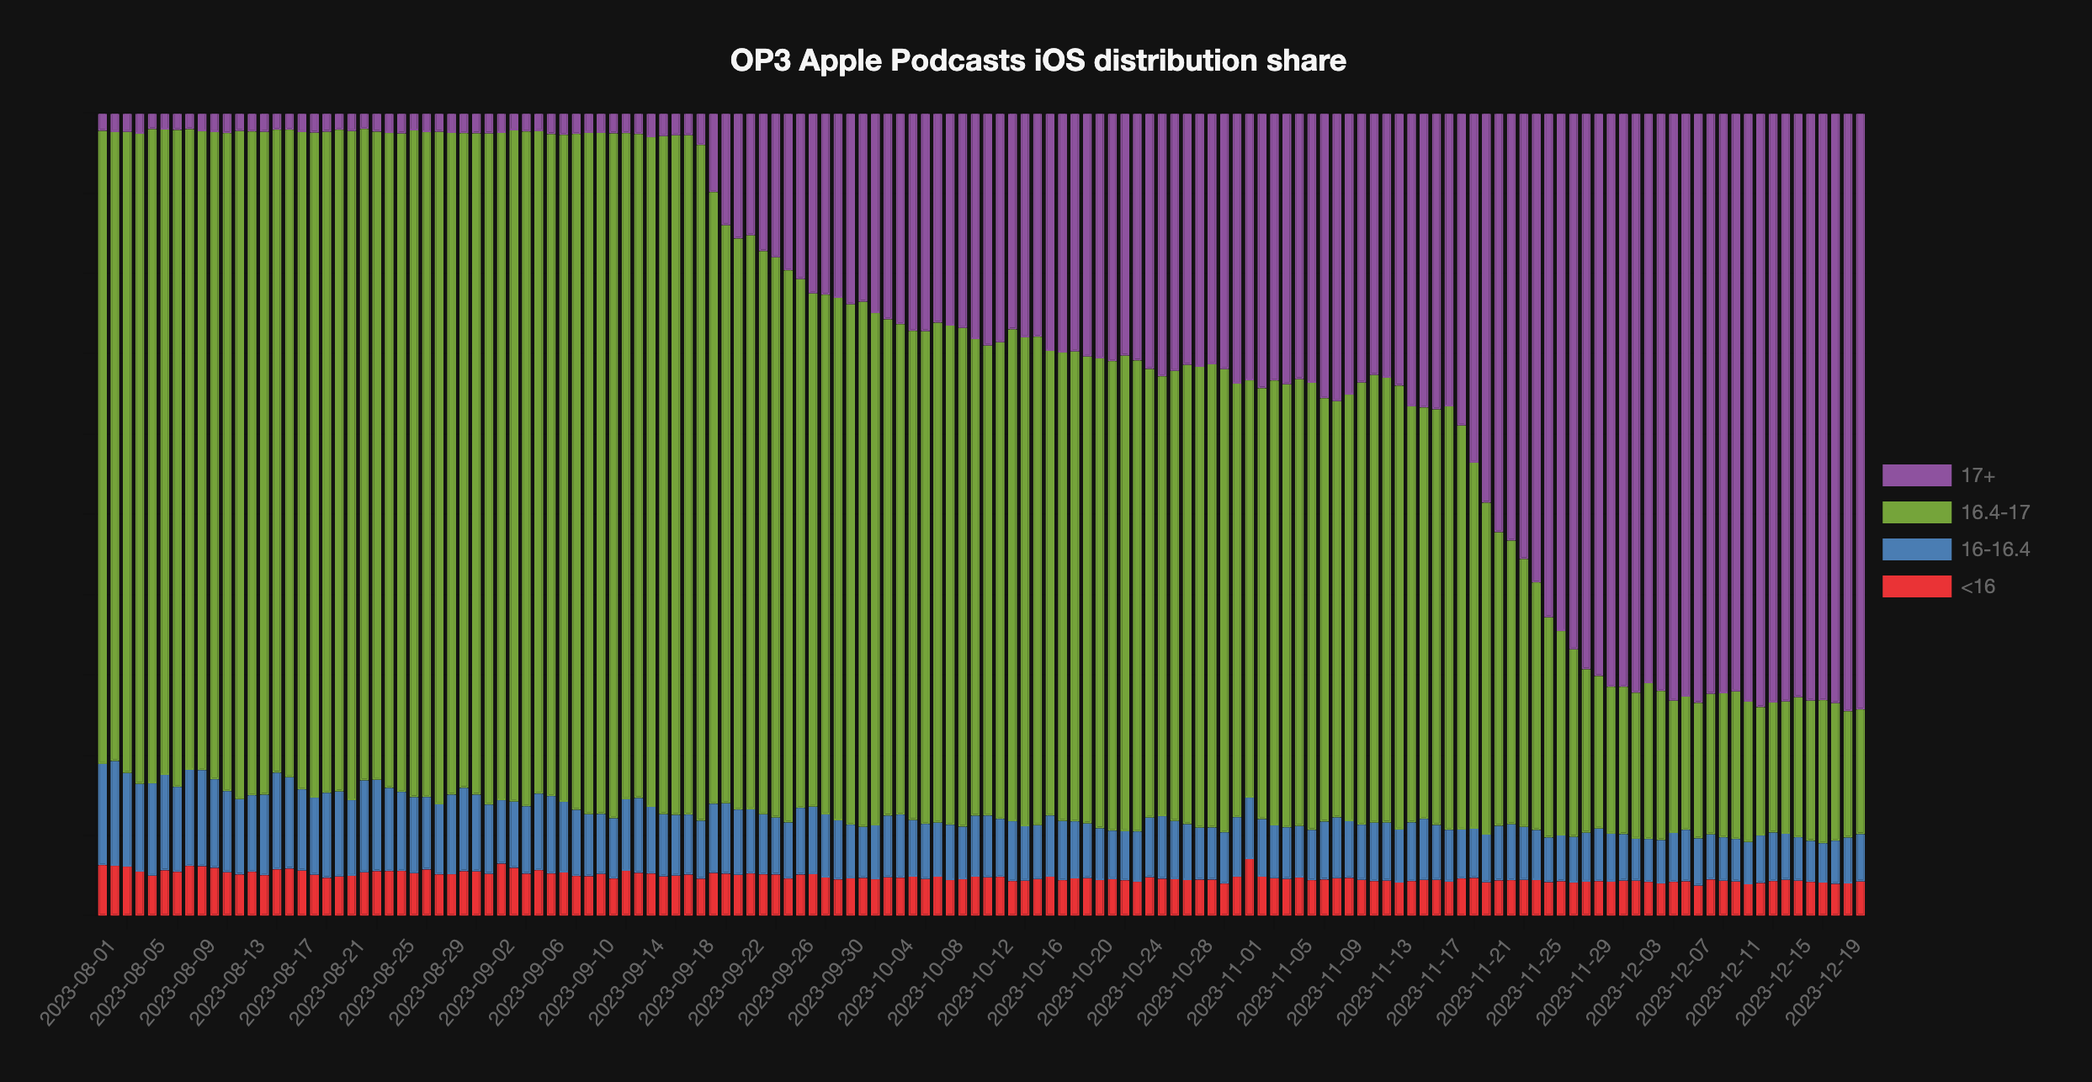
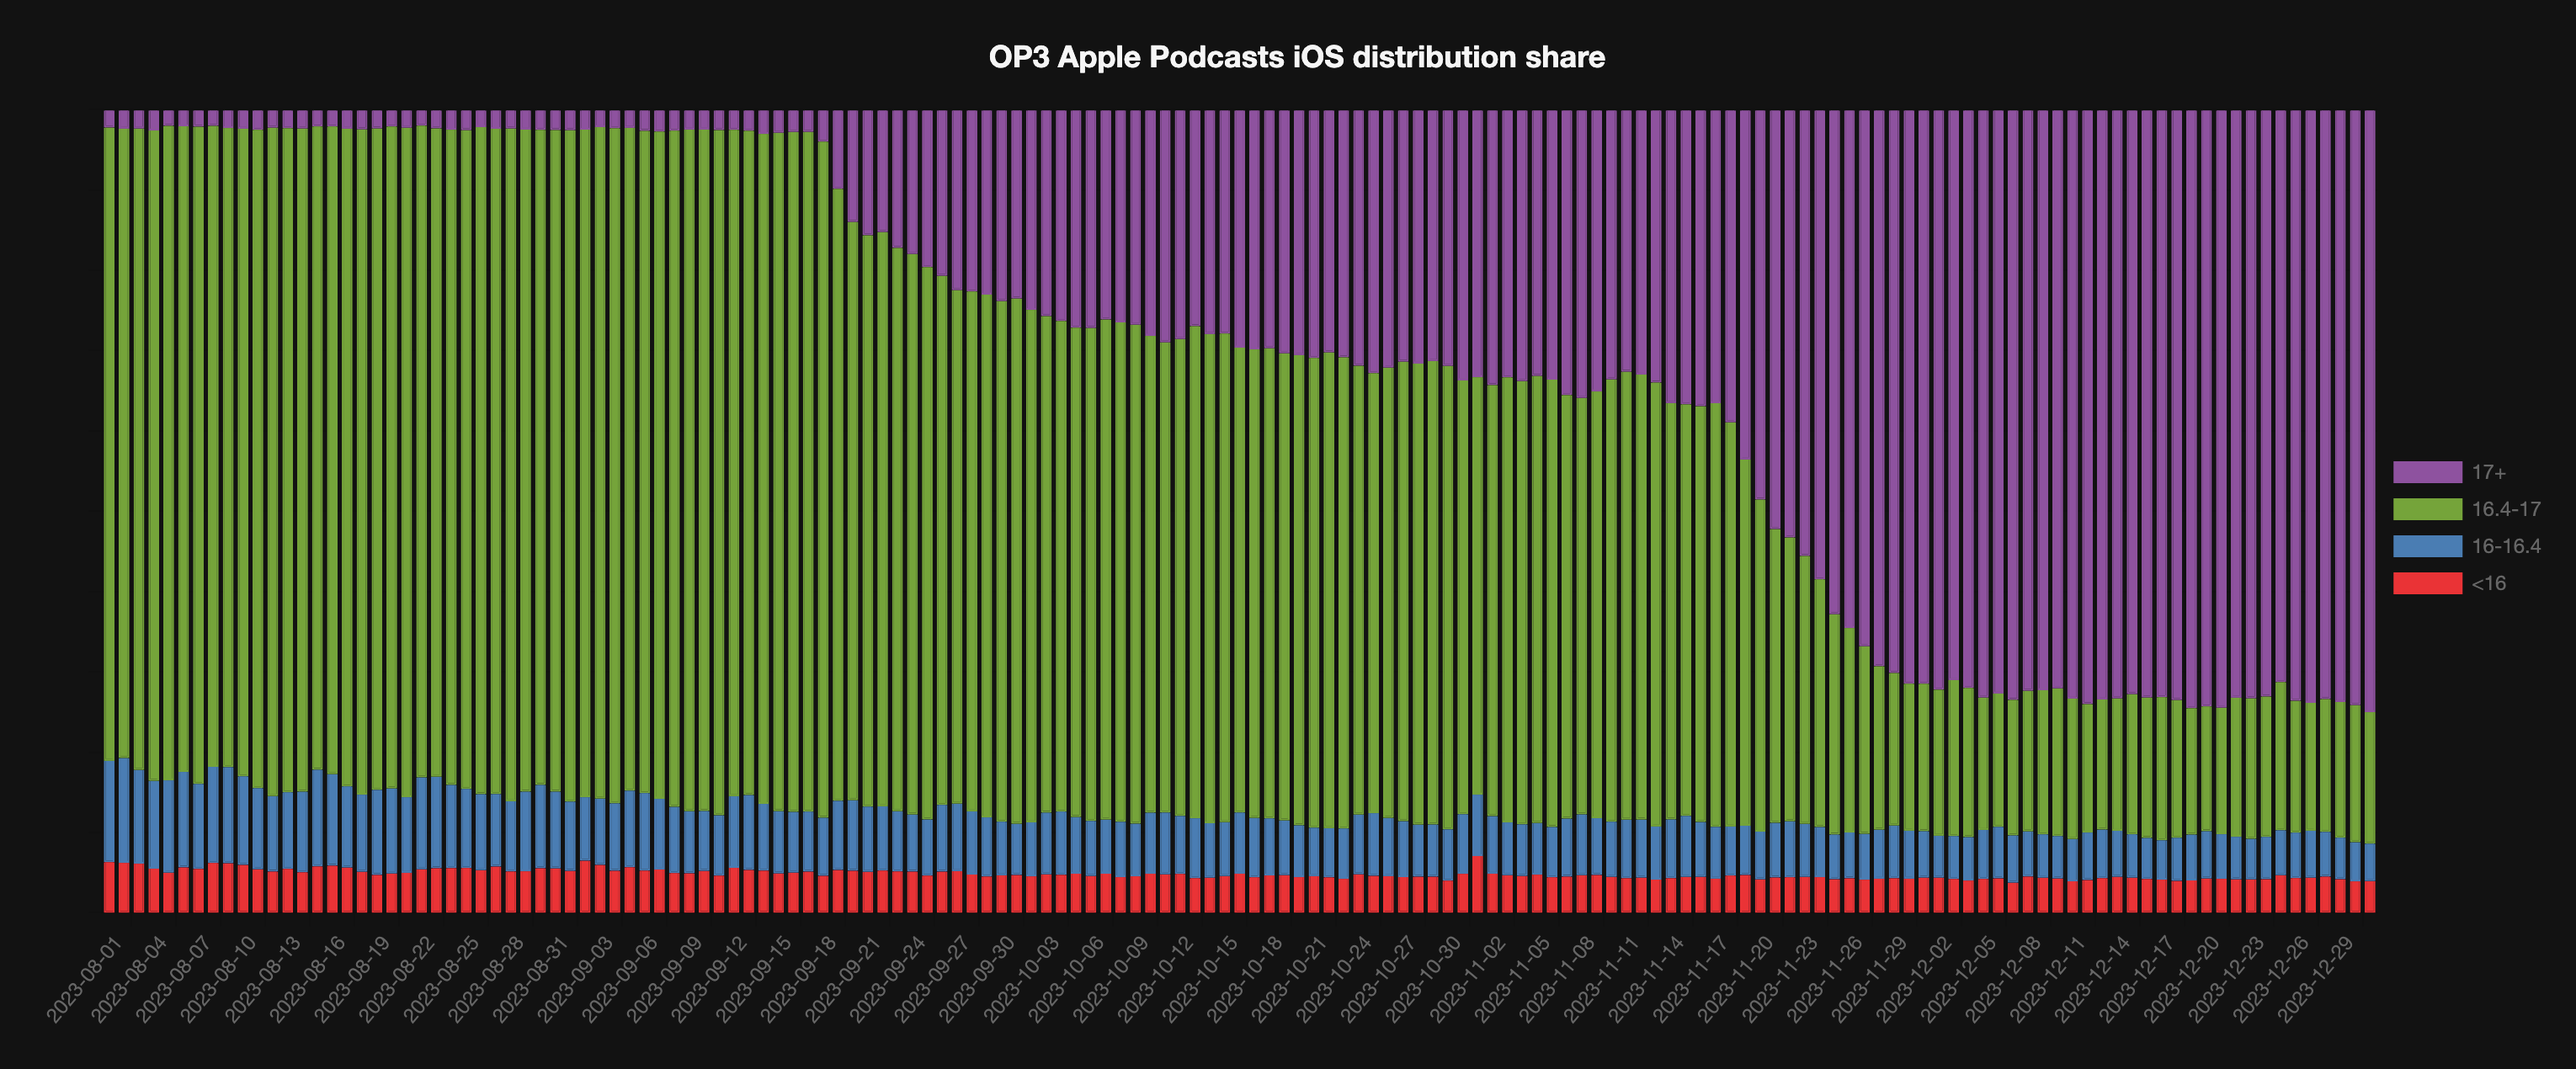
Updated ios17 post.

diff --git a/content/posts/tracking-apple-podcasts-ios17-changes.md b/content/posts/tracking-apple-podcasts-ios17-changes.md
@@ -5,11 +5,11 @@ slug: "tracking-apple-podcasts-ios17-changes"
 images:
 - tracking-apple-podcasts-ios17-changes.png
 date: 2023-11-24T13:17:00-06:00
-lastmod: 2023-12-21T12:30:00-06:00
+lastmod: 2024-01-01T01:44:00-06:00
 draft: false
 ---
 
-_(Updated with data through 2023-12-20)_
+_(Updated with data through 2023-12-31)_
 
 Apple made a change to [auto-downloading in Apple Podcasts in iOS 17](https://podcasters.apple.com/5349-ios-17-automatic-download-improvements), are we seeing a difference in downloads?
 
@@ -169,9 +169,20 @@ Date	17+	16.4-17	16-16.4	<16
 2023-12-18	73.51456082667919	17.141263503992484	5.379579614842649	3.9645960544856735
 2023-12-19	74.5266226576406	15.738132279359206	5.709960896438632	4.0252841665615495
 2023-12-20	74.29825299346625	15.535178486301563	5.900002804183843	4.266565716048344
+2023-12-21	74.47713399379565	15.74268654724974	5.555555555555555	4.2246239033990465
+2023-12-22	73.22067594433399	17.317760106030484	5.296554009277667	4.165009940357852
+2023-12-23	73.300447401629	17.49913961225192	5.047608122060342	4.152804864058736
+2023-12-24	73.07536150410694	17.4677535213467	5.278116118554608	4.178768855991755
+2023-12-25	71.27408521563238	18.44869168330697	5.6041077772879335	4.673115323772723
+2023-12-26	73.61125629821665	16.405678325771987	5.659509523112625	4.323555852898748
+2023-12-27	73.8629821531376	15.919943106776389	5.851874428527888	4.365200311558129
+2023-12-28	73.3858964560119	16.541292891910373	5.563377448811296	4.509433203266423
+2023-12-29	73.75447965708665	16.890942309043638	5.1788349378118195	4.175743096057902
+2023-12-30	74.14565826330532	17.074102368220014	4.868856633562516	3.9113827349121464
+2023-12-31	75.02012102423465	16.371061495811844	4.668077622440158	3.9407398575133397
 {{< /graph >}}
 
-We can see that iOS 17 is rolling out quite quickly, with a few beta testers in August, then an initial rise after September 18, a large increase starting November 19, plateauing in December to a level where  _over 70% of AP listeners have iOS 17+_.
+We can see that iOS 17 is rolling out quite quickly, with a few beta testers in August, then an initial rise after September 18, a large increase starting November 19, plateauing in December to a level where  _3 out of 4 AP listeners have iOS 17+_.
 
 We show pre-post 16.4 as well, since that was when Apple Podcasts made another change, [no longer using the AppleCoreMedia user-agents for some requests](/apple-podcasts-vs-applecoremedia).
 
@@ -329,6 +340,17 @@ Date	Apple Podcasts	AppleCoreMedia	Spotify	NRC	Other
 2023-12-18	32.09610485331111	3.8601635395469818	28.350504451672514	4.891765874605438	30.80146128086395
 2023-12-19	34.120661528617624	3.5658905791545856	32.31494664998819	2.452774719415254	27.54572652282435
 2023-12-20	34.4126491361301	3.740608144383524	34.81989612976269	1.019786529137354	26.007060060586333
+2023-12-21	27.987062810375328	3.1940685010336964	32.16181078028091	8.47524457042989	28.181813337880175
+2023-12-22	31.110665200979454	3.7023142735833146	34.23601053898903	2.9124717186345843	28.038538267813625
+2023-12-23	33.708865757659765	4.353487746889466	33.02711058463761	1.111895220572792	27.798640690240354
+2023-12-24	33.290565000229115	4.600650689639371	30.080394283299476	1.208714557016807	30.819675469815234
+2023-12-25	36.128564763804924	4.4206545367916386	23.835402956036646	1.0631011583931391	34.55227658497365
+2023-12-26	31.72205093935574	3.824248591346081	36.50995550020503	0.9006272496696688	27.043117719423478
+2023-12-27	33.05295774294514	3.452947707129819	36.63448933381003	0.6310018879877562	26.228603328127253
+2023-12-28	31.63822737198873	3.7454447758726395	33.455494857505016	3.7172006640810675	27.443632330552553
+2023-12-29	33.7727927773793	3.818592194357986	30.72410457533544	0.794909421124323	30.889601031802954
+2023-12-30	33.747838001752065	4.24582762416047	32.16109975516071	0.7767470068959321	29.068487612030818
+2023-12-31	32.61119827217344	4.209539721673221	28.615599339839846	0.7656023961368407	33.798060270176656
 {{< /graph >}}
 
 {{< graph agent-share-ten-daily-all "OP3 podcast app share (ten-daily, all shows)" "limit:100,height:600px,type:stacked-bar">}}
@@ -347,6 +369,7 @@ Date	Apple Podcasts	AppleCoreMedia	Spotify	NRC	Other
 2023-11-21	35.36076051530232	4.035034483587419	31.909998260184135	2.591315068635326	26.102891672290795
 2023-12-01	33.220651958353216	4.041616709342518	30.455958552469365	3.057153267451802	29.2246195123831
 2023-12-11	34.366035146387794	3.8705972222479117	31.712392236795132	1.8810278188289593	28.1699475757402
+2023-12-21	32.30008805066404	3.873958084088045	32.38088588864404	2.366115881181085	29.07895209542279
 {{< /graph >}}
 
 {{< graph agent-share-monthly-all "OP3 podcast app share (monthly, all shows)" "limit:100,height:600px,type:stacked-bar">}}
@@ -355,7 +378,7 @@ Date	Apple Podcasts	AppleCoreMedia	Spotify	NRC	Other
 2023-09	39.09834716498004	4.600363593301731	30.898392994176017	0.9169686445349059	24.48592760300731
 2023-10	38.4274842787035	4.278142446986713	28.411312797116373	2.6914541121826985	26.191606365010717
 2023-11	37.56132504508113	3.8999039772641324	31.666984205851513	1.5742271895888968	25.29755958221433
-2023-12	33.79797318410164	3.9554157060907182	31.089253891779574	2.4643366513829106	28.693020566645156
+2023-12	33.32711865688839	3.929809810658696	31.495273525488997	2.433461323706906	28.814336683257014
 {{< /graph >}}
 
 Some notes:
@@ -524,6 +547,17 @@ Date	Apple Podcasts	AppleCoreMedia	Spotify	NRC	Other
 2023-12-18	59.27219160892575	3.726335315620056	7.4635823012712095	0	29.53789077418299
 2023-12-19	56.74004825090471	3.7494973864093284	6.297748291113791	0	33.21270607157217
 2023-12-20	60.55884685357093	3.51728320194057	6.922610439893642	0	29.001259504594863
+2023-12-21	56.42023346303502	3.9165656694520634	8.3944632263826	0	31.26873764113032
+2023-12-22	53.05730907290507	3.6266864710979085	7.358583983166234	0	35.9574204728308
+2023-12-23	55.43388429752066	4.207988980716253	7.754820936639119	0	32.603305785123965
+2023-12-24	55.57697142378279	4.19844129724294	7.089583507919215	0	33.135003771055054
+2023-12-25	58.37407206228499	3.6664856056491035	5.56762629005975	0	32.391816042006155
+2023-12-26	57.29588394062078	4.2257085020242915	8.063427800269904	0	30.41497975708502
+2023-12-27	51.86104218362283	4.074095446938657	7.484563448554446	0	36.58029892088407
+2023-12-28	52.468477206595544	4.980601357904947	6.707080504364694	0	35.84384093113482
+2023-12-29	50.72746740568117	4.931662152799647	7.747055489072243	0	36.593814952446934
+2023-12-30	52.085043506813335	5.672303398456739	8.487933015925135	0	33.754720078804795
+2023-12-31	53.68439498817138	5.511259090510821	7.377551914483484	0	33.42679400683431
 {{< /graph >}}
 
 {{< graph agent-share-ten-daily-subset "OP3 podcast app share (ten-daily, 38 Apple-heavy shows)" "limit:100,height:600px,type:stacked-bar">}}
@@ -542,6 +576,7 @@ Date	Apple Podcasts	AppleCoreMedia	Spotify	NRC	Other
 2023-11-21	59.11194708033054	4.321913899866855	7.235243147283217	0	29.330895872519392
 2023-12-01	58.5893823008045	3.9617517385573384	7.4252306713331215	0	30.023635289305034
 2023-12-11	58.02543660623217	3.779063716408901	6.712495576694906	0	31.483004100664015
+2023-12-21	54.01390824091645	4.447358632125136	7.461020988456034	0	34.07771213850238
 {{< /graph >}}
 
 {{< graph agent-share-monthly-subset "OP3 podcast app share (monthly, 38 Apple-heavy shows)" "limit:100,height:600px,type:stacked-bar">}}
@@ -550,16 +585,16 @@ Date	Apple Podcasts	AppleCoreMedia	Spotify	NRC	Other
 2023-09	66.89161304652441	4.448700845536972	5.31274722050458	0	23.346938887434035
 2023-10	65.37621737774235	3.9634006862371334	6.5225799743527535	0	24.137801961667765
 2023-11	63.109407034640675	3.8358949299026266	6.563513655322341	0	26.491184380134353
-2023-12	58.29503601577524	3.8663994002803035	7.053225123040319	0	30.785339460904144
+2023-12	57.00601575981001	4.04132251800077	7.176009856050785	0	31.77665186613843
 {{< /graph >}}
 
-After isolating to shows likely to have the most dramatic effect, we see a drop in Apple Podcasts share of downloads of 7-9%.
+After isolating to shows likely to have the most dramatic effect, we see a drop in Apple Podcasts share of downloads of 8-10%, vs 5-6% drop in Apple Podcasts share across all shows.
 
 The share of Apple Podcasts downloads for these 38 Apple-heavy shows went:
  - from 65.52% in August to 63.11% in November (-2.41%)
  - from 66.89% in September to 63.11% in November (-3.78%)
- - from 65.52% in August to 58.3% in December MTD (-7.22%)
- - from 66.89% in September to 58.3% in December MTD (-8.59%)
+ - from 65.52% in August to 57.01% in December (-8.51%)
+ - from 66.89% in September to 57.01% in December (-9.88%)
 
 Once again, it's very difficult to keep everything else constant when trying to identify the effect from the iOS 17 change alone.
 December is traditionally a slumping month for publishing and listening, we'll be able to say for sure whether these changes are durable after a full January.
@@ -570,6 +605,8 @@ We'll keep an eye on it, and update these numbers periodically.
 Data collected and visualized by [John Spurlock](https://twitter.com/johnspurlock)
 
 ---
+
+*Updated 2024-01-01, with eleven new days of data.*
 
 *Updated 2023-12-21, with ten new days of data, and after [reprocessing](https://op3.dev/status#2023-12-15-2023-12-21-finished). Filter for Apple-heavy shows changed to 40%, now 38 shows.*
 

diff --git a/content/_index.md b/content/_index.md
@@ -1,16 +1,16 @@
 ---
 title: "livewire.io: Podcasting ▷ Forward"
 date: 2023-01-15T18:32:00-06:00
-lastmod: 2024-01-01T10:51:00-06:00
+lastmod: 2024-01-01T01:44:00-06:00
 ---
 
 {{< p index-subhead "Podcasting ▷ Forward" >}}
 
 ---
 
-New graphs: [Buzzsprout Statistics, visualized](/buzzsprout-stats-visualized)
-
 New data: [Impact of Apple Podcasts auto-downloading changes in iOS 17](/tracking-apple-podcasts-ios17-changes)
+
+New graphs: [Buzzsprout Statistics, visualized](/buzzsprout-stats-visualized)
 
 New graphs: [Libsyn Statistics, visualized](/libsyn-stats-visualized)
 
